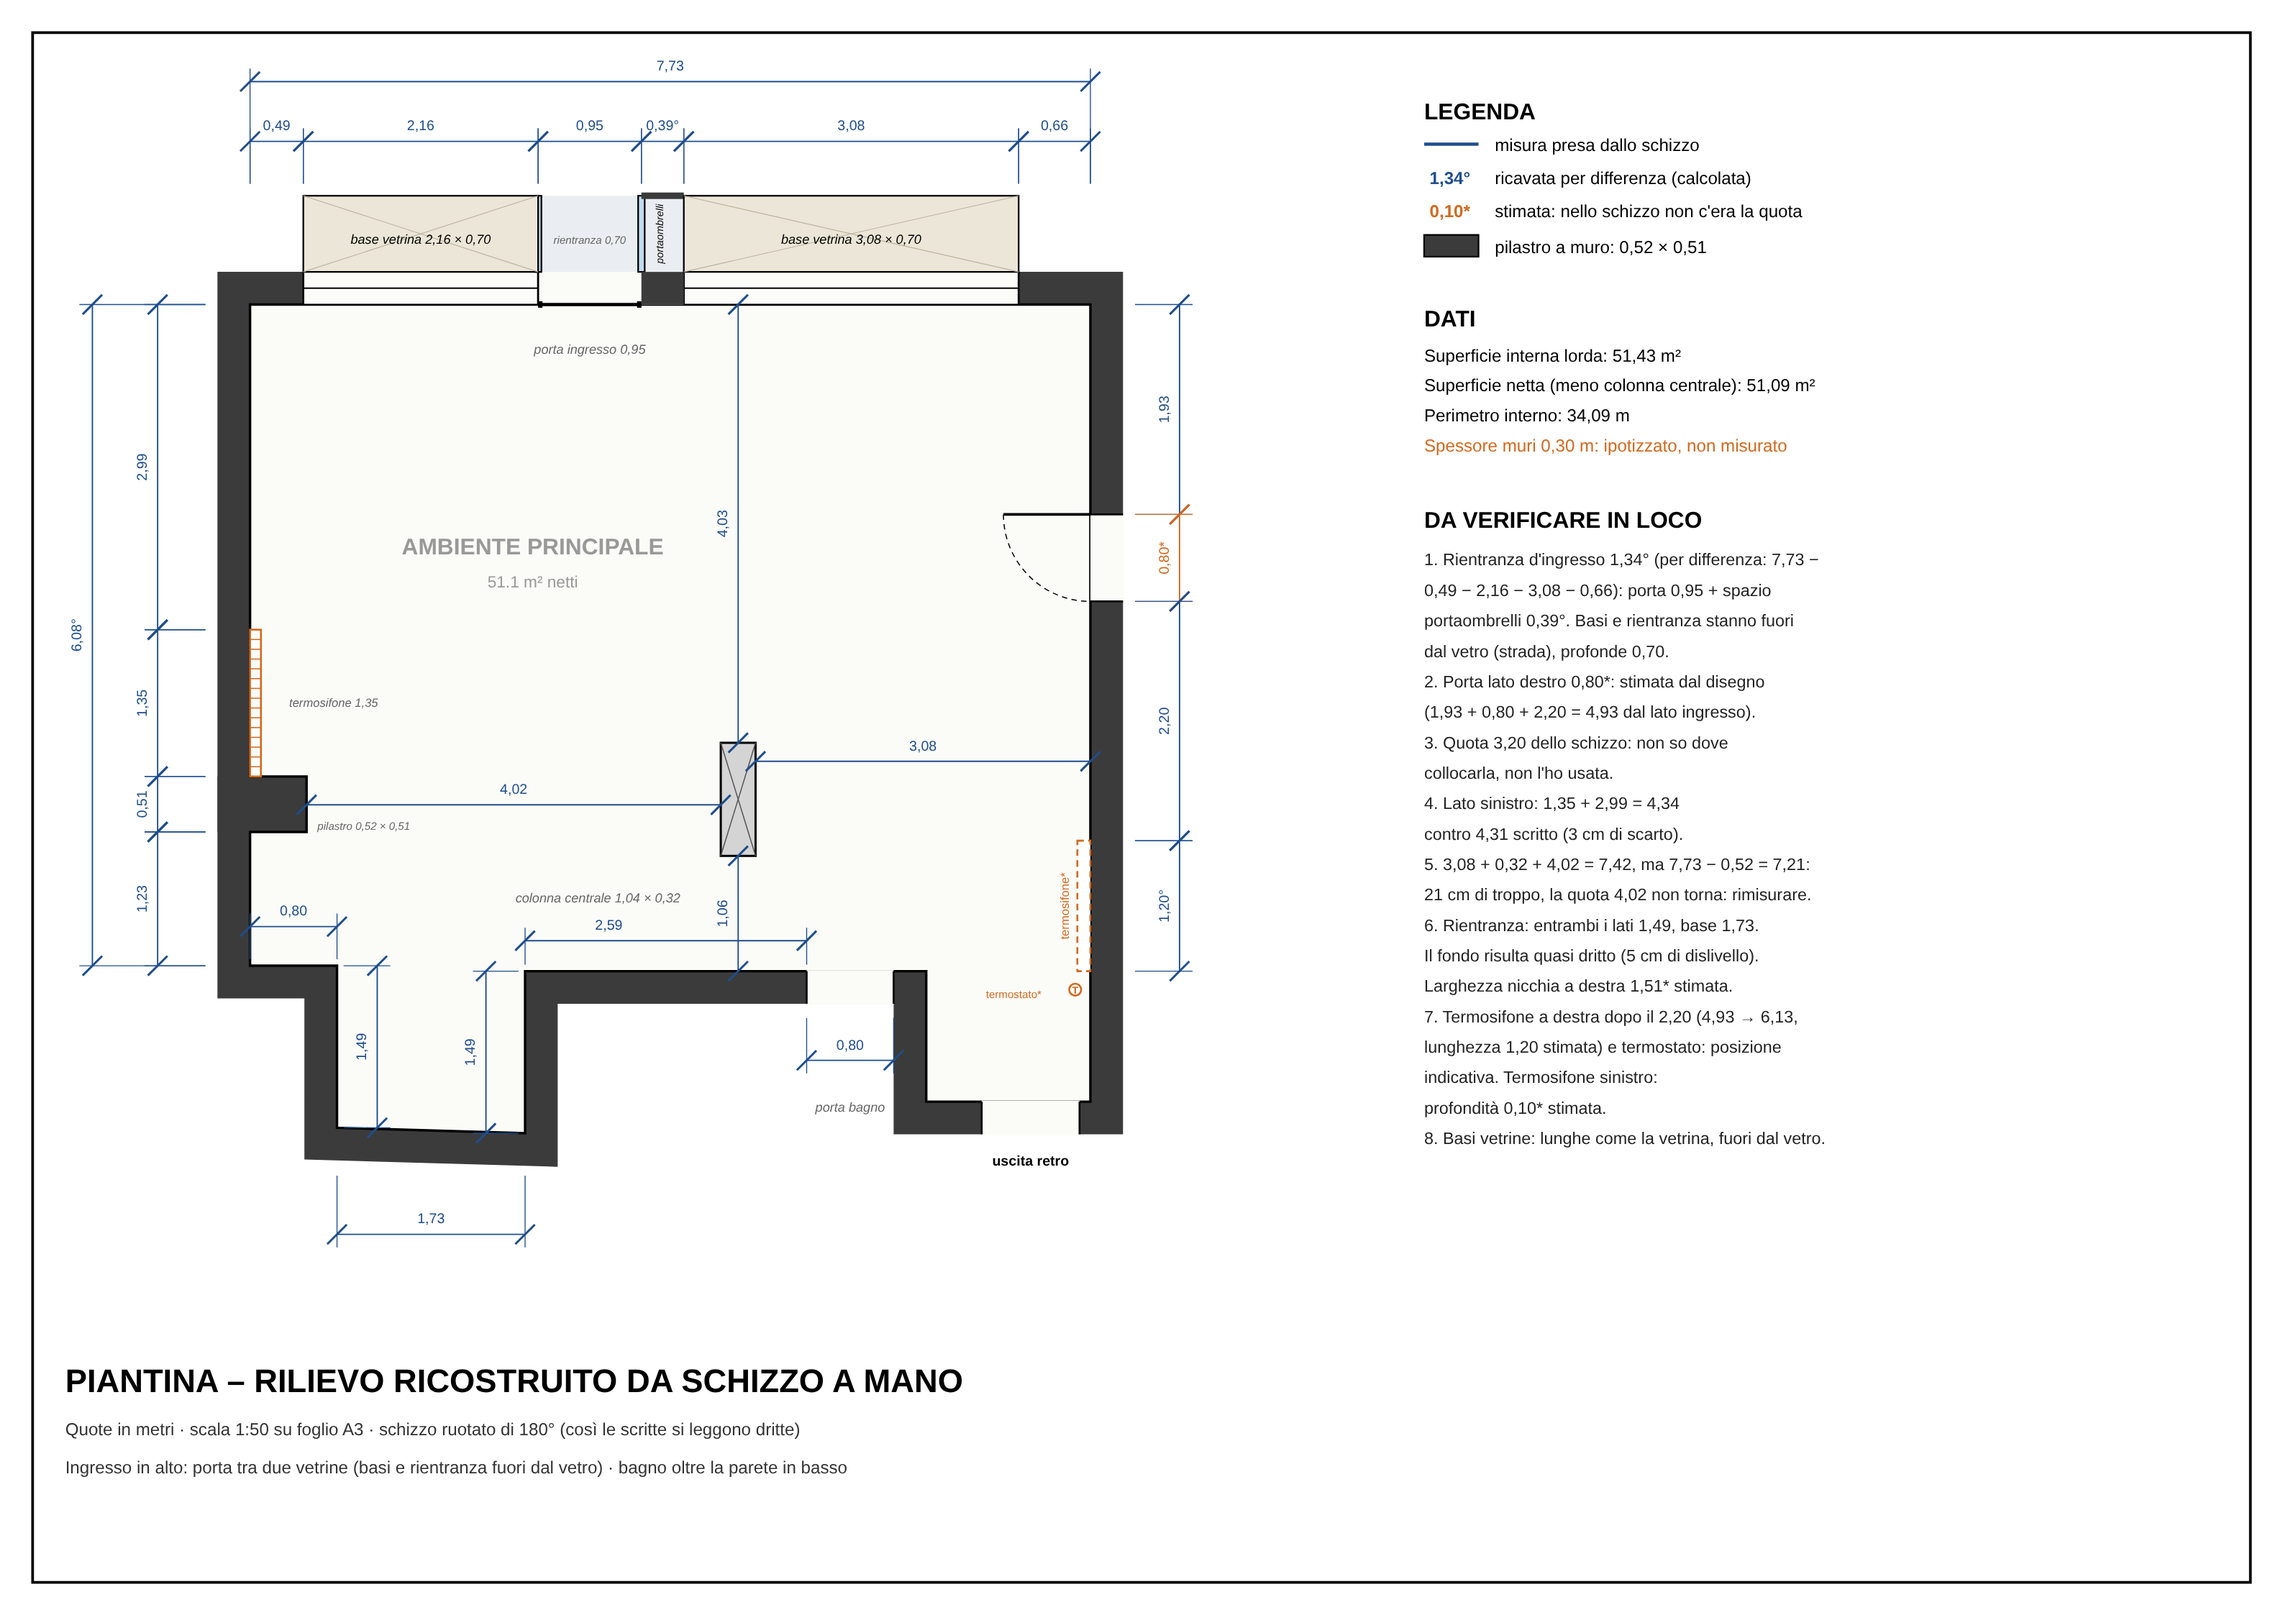
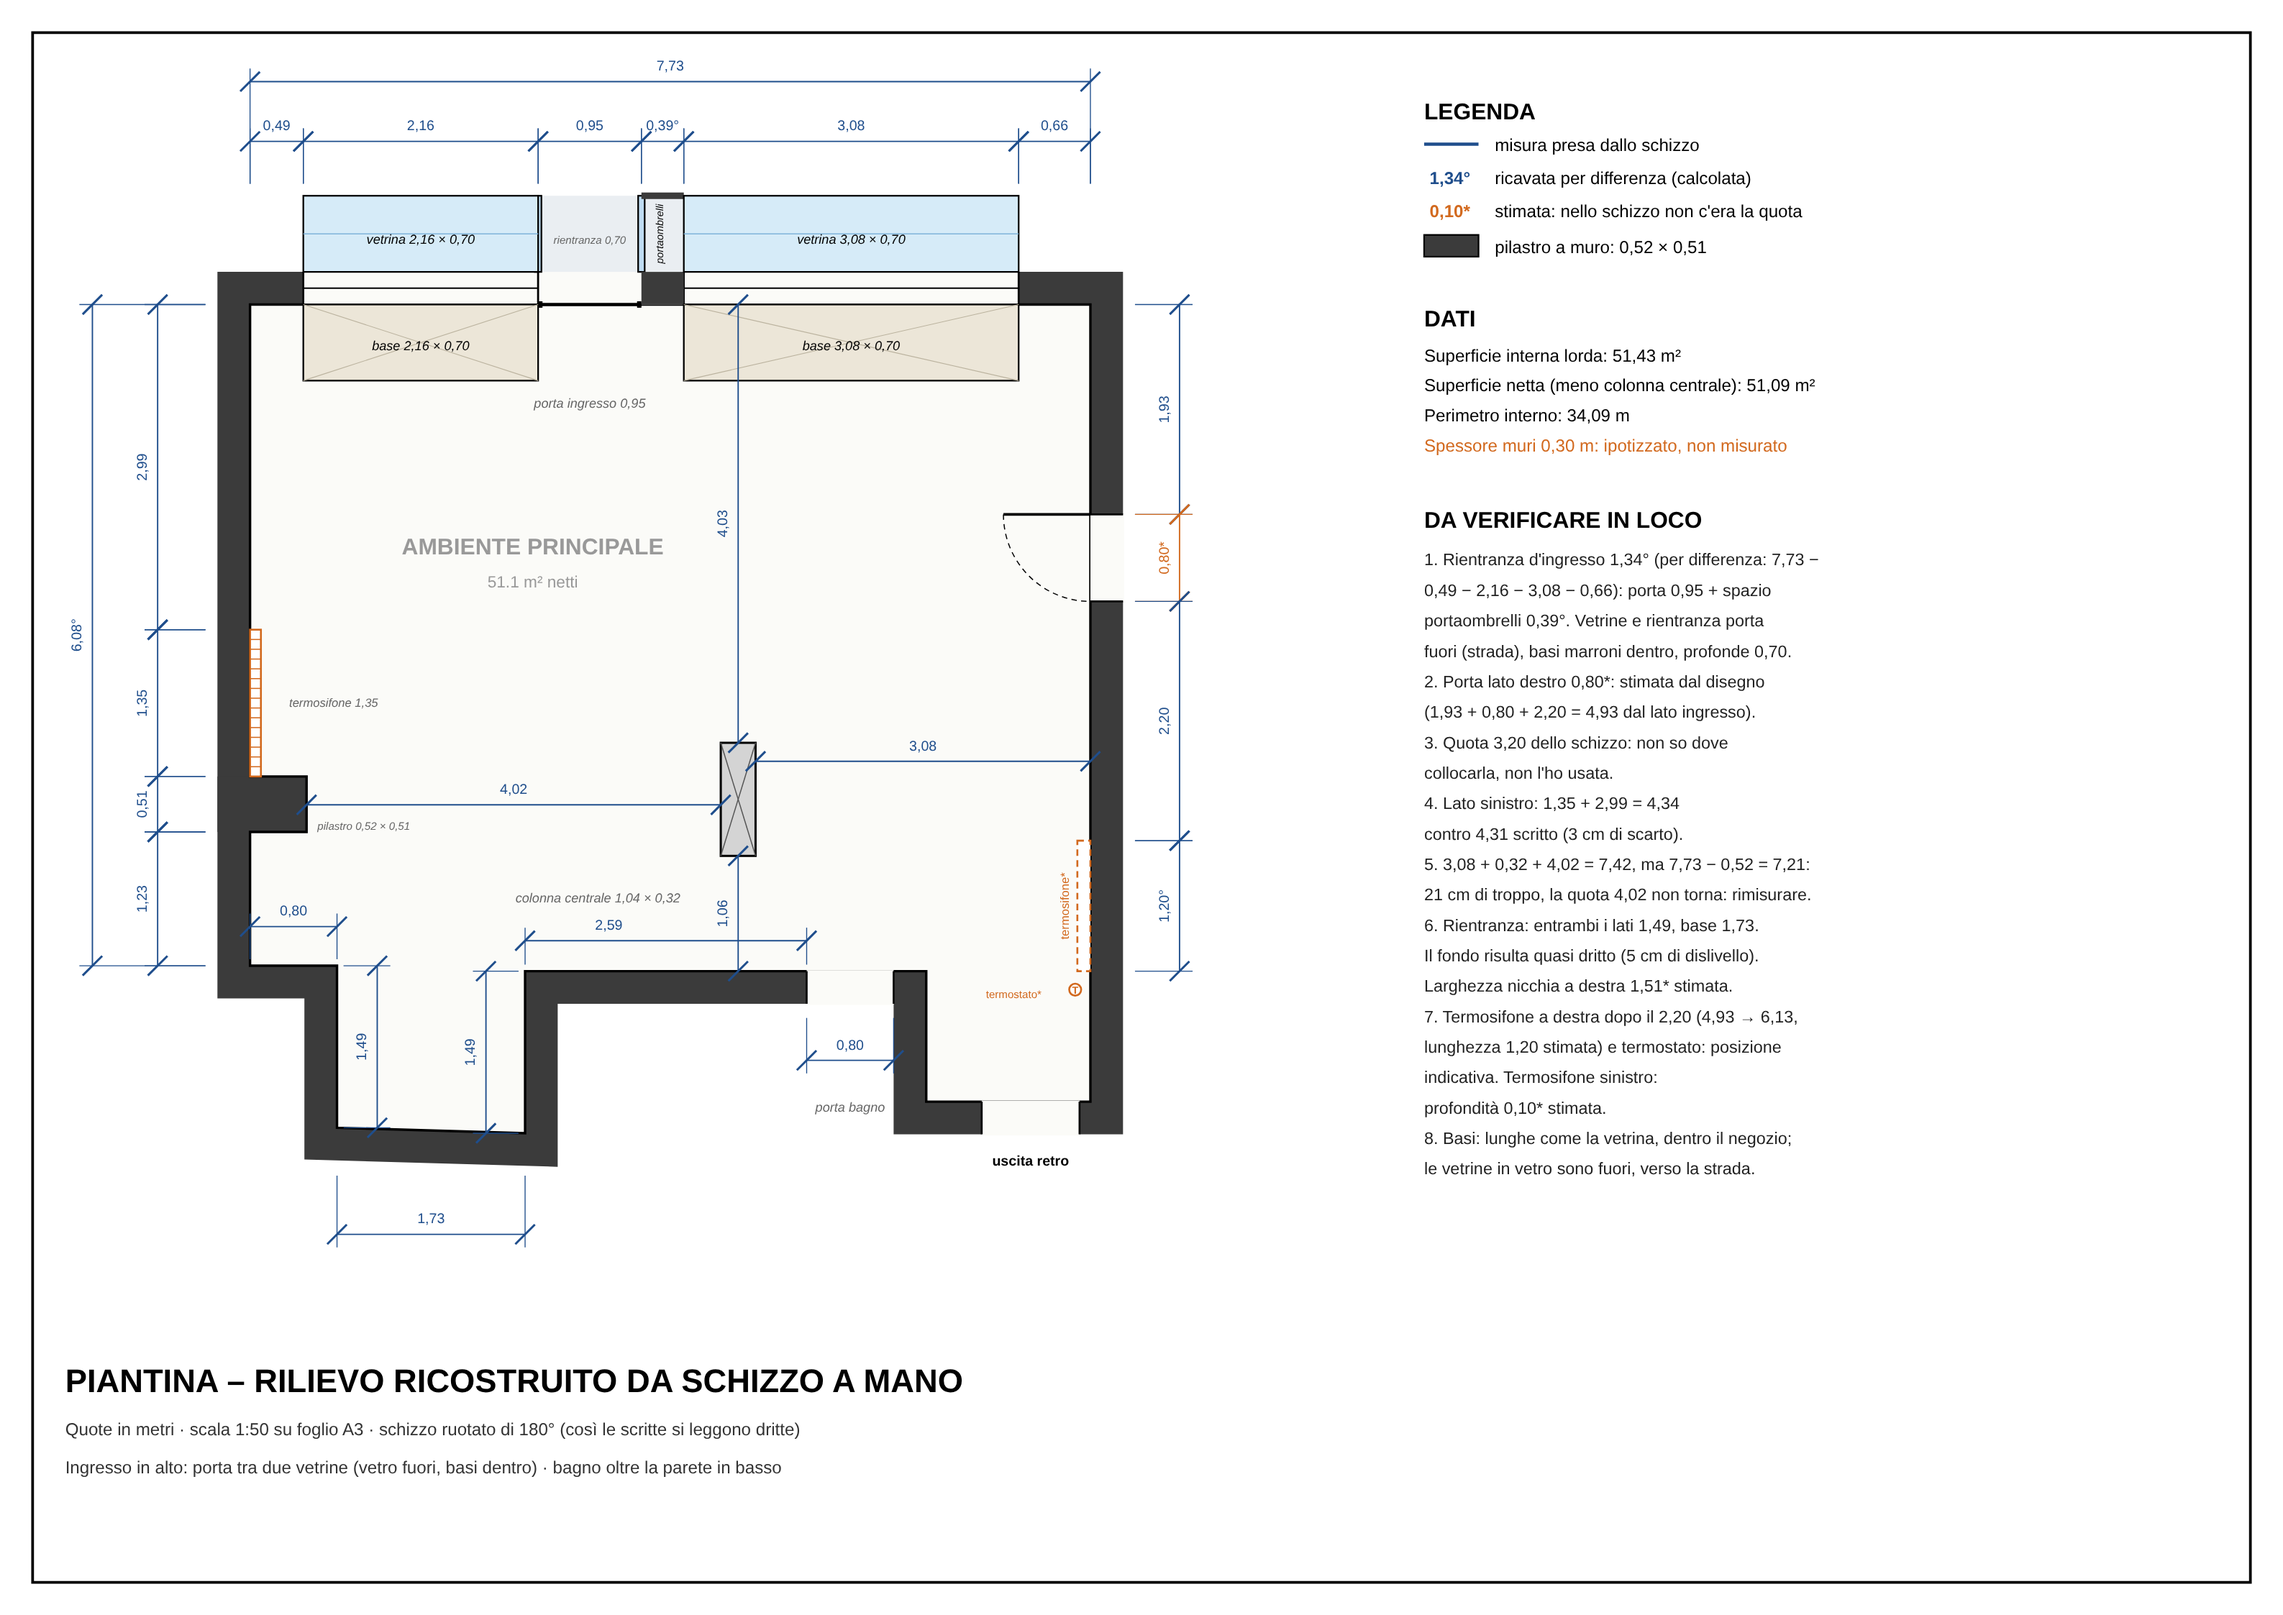
Scambia base marrone e vetrina: base dentro, vetrina fuori
Claude-Session: https://claude.ai/code/session_012mEpG2XJd9CwTCZtepJEcC

diff --git a/piantina/genera_piantina.py b/piantina/genera_piantina.py
@@ -158,11 +158,13 @@ opening(5.12, 6.13 - 0.01, 5.92, 6.13 + T + 0.01, [(5.12, 6.13, 5.12, 6.13 + T),
 opening(6.73, 7.33 - 0.01, 7.63, 7.33 + T + 0.01, [(6.73, 7.33, 6.73, 7.33 + T), (7.63, 7.33, 7.63, 7.33 + T)])
 rect(6.73, 7.33 - 0.01, 7.63, 7.33 + T + 0.01, fill="none")
 
-# ---- basi delle vetrine FUORI dal vetro: lunghe quanto la vetrina, profonde 0,70
+# ---- scambio: base marrone DENTRO (Y' 0 -> 0,70), vetrina in vetro FUORI (Y' -1,00 -> -0,30)
 for (a, b) in [(0.49, 2.65), (3.99, 7.07)]:
-    rect(a, -T - 0.70, b, -T, fill="#ece6d8", stroke="#000", w=0.3)
-    line(a, -T - 0.70, b, -T, "#bbb39f", 0.15)
-    line(a, -T, b, -T - 0.70, "#bbb39f", 0.15)
+    rect(a, 0.0, b, 0.70, fill="#ece6d8", stroke="#000", w=0.3)
+    line(a, 0.0, b, 0.70, "#bbb39f", 0.15)
+    line(a, 0.70, b, 0.0, "#bbb39f", 0.15)
+    rect(a, -T - 0.70, b, -T, fill="#d6ebf8", stroke="#000", w=0.3)
+    line(a, -T - 0.35, b, -T - 0.35, "#7fb3d9", 0.2)
 
 # ---- pilastro centrale 0,32 x 1,04 (X' 4,33-4,65 ; Y' 4,03-5,07)
 rect(4.33, 4.03, 4.65, 5.07, fill="#d4d4d4", stroke="#000", w=0.4)
@@ -183,9 +185,11 @@ ptext(X(W - 0.14), Y(6.30) + 0.8, "T", 1.9, ORANGE, "middle", "bold")
 text(W - 0.45, 6.38, "termostato*", 2.0, ORANGE, anchor="end")
 
 # ---- etichette ambienti/aperture
-text(1.57, -0.56, "base vetrina 2,16 × 0,70", 2.4, "#000", style="italic")
-text(5.53, -0.56, "base vetrina 3,08 × 0,70", 2.4, "#000", style="italic")
-text(3.125, 0.45, "porta ingresso 0,95", 2.4, GREY, style="italic")
+text(1.57, 0.42, "base 2,16 × 0,70", 2.4, "#000", style="italic")
+text(1.57, -0.56, "vetrina 2,16 × 0,70", 2.4, "#000", style="italic")
+text(5.53, 0.42, "base 3,08 × 0,70", 2.4, "#000", style="italic")
+text(5.53, -0.56, "vetrina 3,08 × 0,70", 2.4, "#000", style="italic")
+text(3.125, 0.95, "porta ingresso 0,95", 2.4, GREY, style="italic")
 text(3.125, -0.56, "rientranza 0,70", 2.0, GREY, style="italic")
 text(3.80, -0.65, "portaombrelli", 1.9, "#000", rot=-90, style="italic")
 text(3.20, 5.50, "colonna centrale 1,04 × 0,32", 2.4, GREY, style="italic")
@@ -237,7 +241,7 @@ dim_h(5.12, 5.92, 6.95, "0,80", yobj=6.5)
 # ---------------------------------------------------------------- cartiglio
 ptext(12, 256, "PIANTINA – RILIEVO RICOSTRUITO DA SCHIZZO A MANO", 6.0, "#000", weight="bold")
 ptext(12, 264, "Quote in metri · scala 1:50 su foglio A3 · schizzo ruotato di 180° (così le scritte si leggono dritte)", 3.2, "#333")
-ptext(12, 271, "Ingresso in alto: porta tra due vetrine (basi e rientranza fuori dal vetro) · bagno oltre la parete in basso", 3.2, "#333")
+ptext(12, 271, "Ingresso in alto: porta tra due vetrine (vetro fuori, basi dentro) · bagno oltre la parete in basso", 3.2, "#333")
 
 # ---------------------------------------------------------------- pannello note
 px = 262
@@ -261,8 +265,8 @@ ptext(px, 97, "DA VERIFICARE IN LOCO", 4.2, "#000", weight="bold")
 notes = [
     "1. Rientranza d'ingresso 1,34° (per differenza: 7,73 −",
     "    0,49 − 2,16 − 3,08 − 0,66): porta 0,95 + spazio",
-    "    portaombrelli 0,39°. Basi e rientranza stanno fuori",
-    "    dal vetro (strada), profonde 0,70.",
+    "    portaombrelli 0,39°. Vetrine e rientranza porta",
+    "    fuori (strada), basi marroni dentro, profonde 0,70.",
     "2. Porta lato destro 0,80*: stimata dal disegno",
     "    (1,93 + 0,80 + 2,20 = 4,93 dal lato ingresso).",
     "3. Quota 3,20 dello schizzo: non so dove",
@@ -278,7 +282,8 @@ notes = [
     "    lunghezza 1,20 stimata) e termostato: posizione",
     "    indicativa. Termosifone sinistro:",
     "    profondità 0,10* stimata.",
-    "8. Basi vetrine: lunghe come la vetrina, fuori dal vetro.",
+    "8. Basi: lunghe come la vetrina, dentro il negozio;",
+    "    le vetrine in vetro sono fuori, verso la strada.",
 ]
 for i, n in enumerate(notes):
     ptext(px, 104 + i * 5.6, n, 3.1, "#222")
